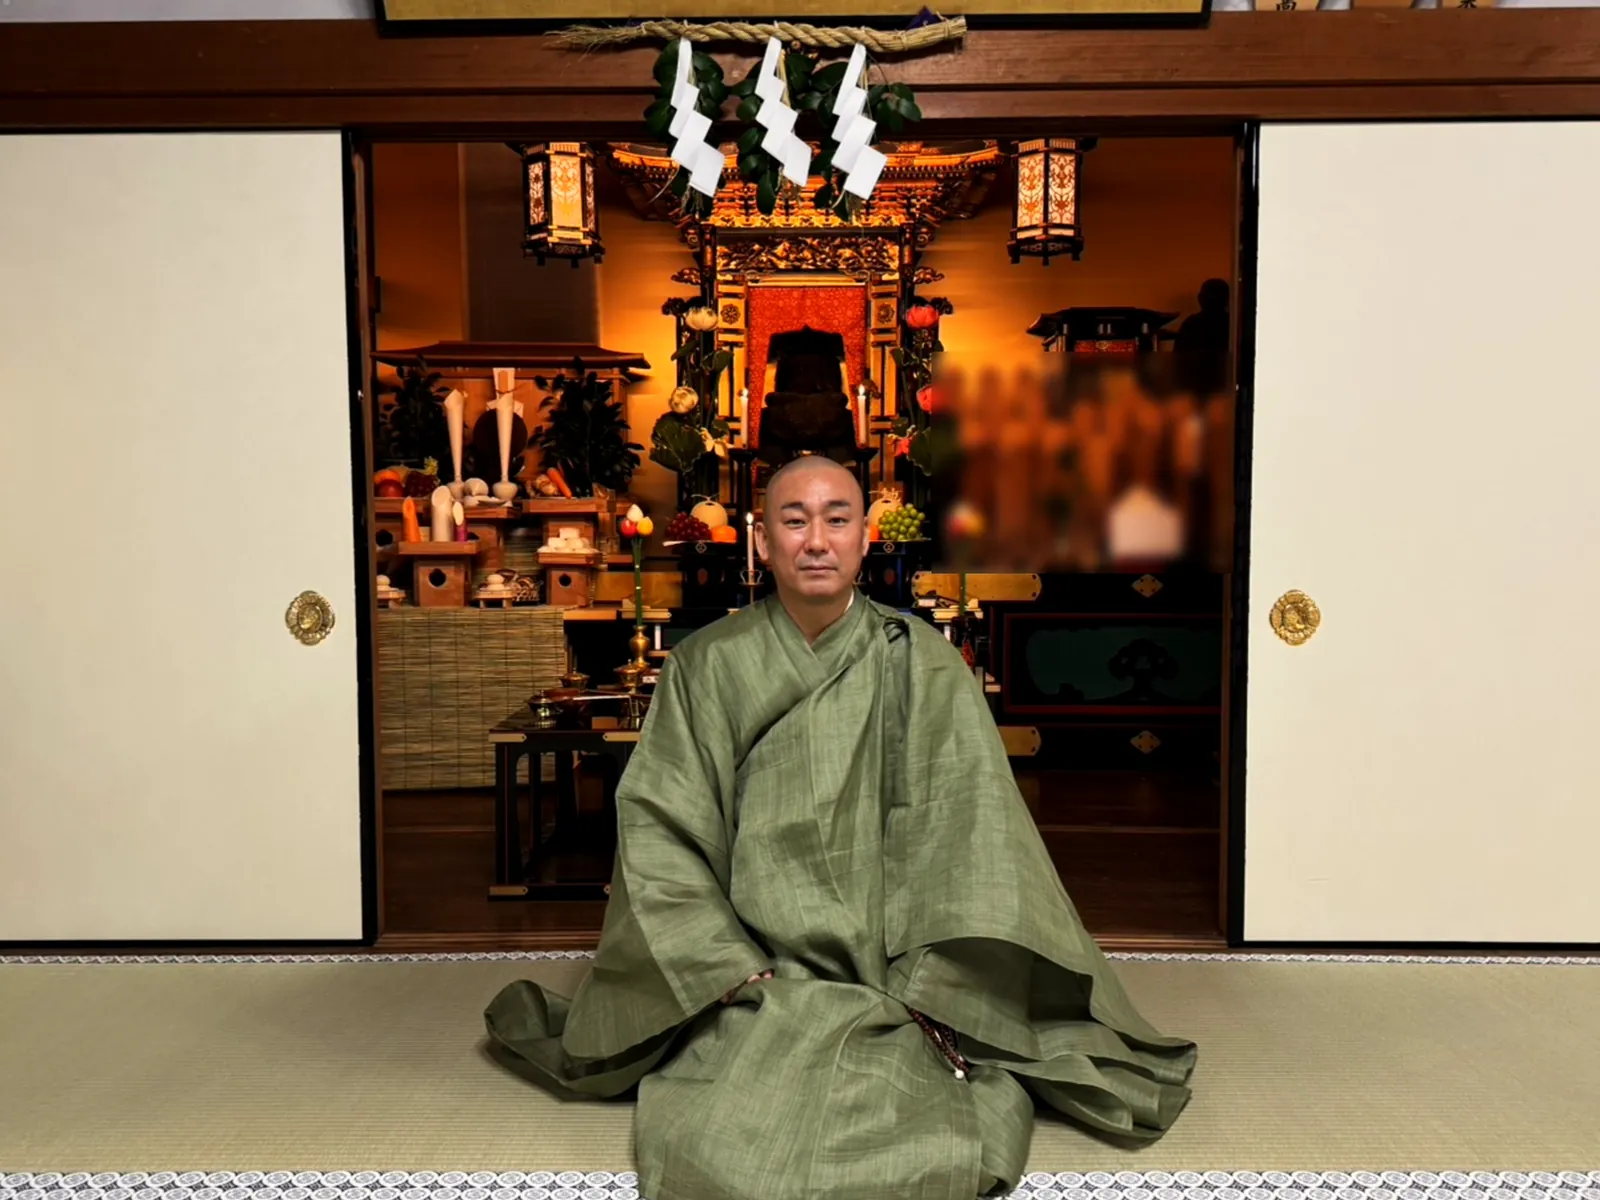
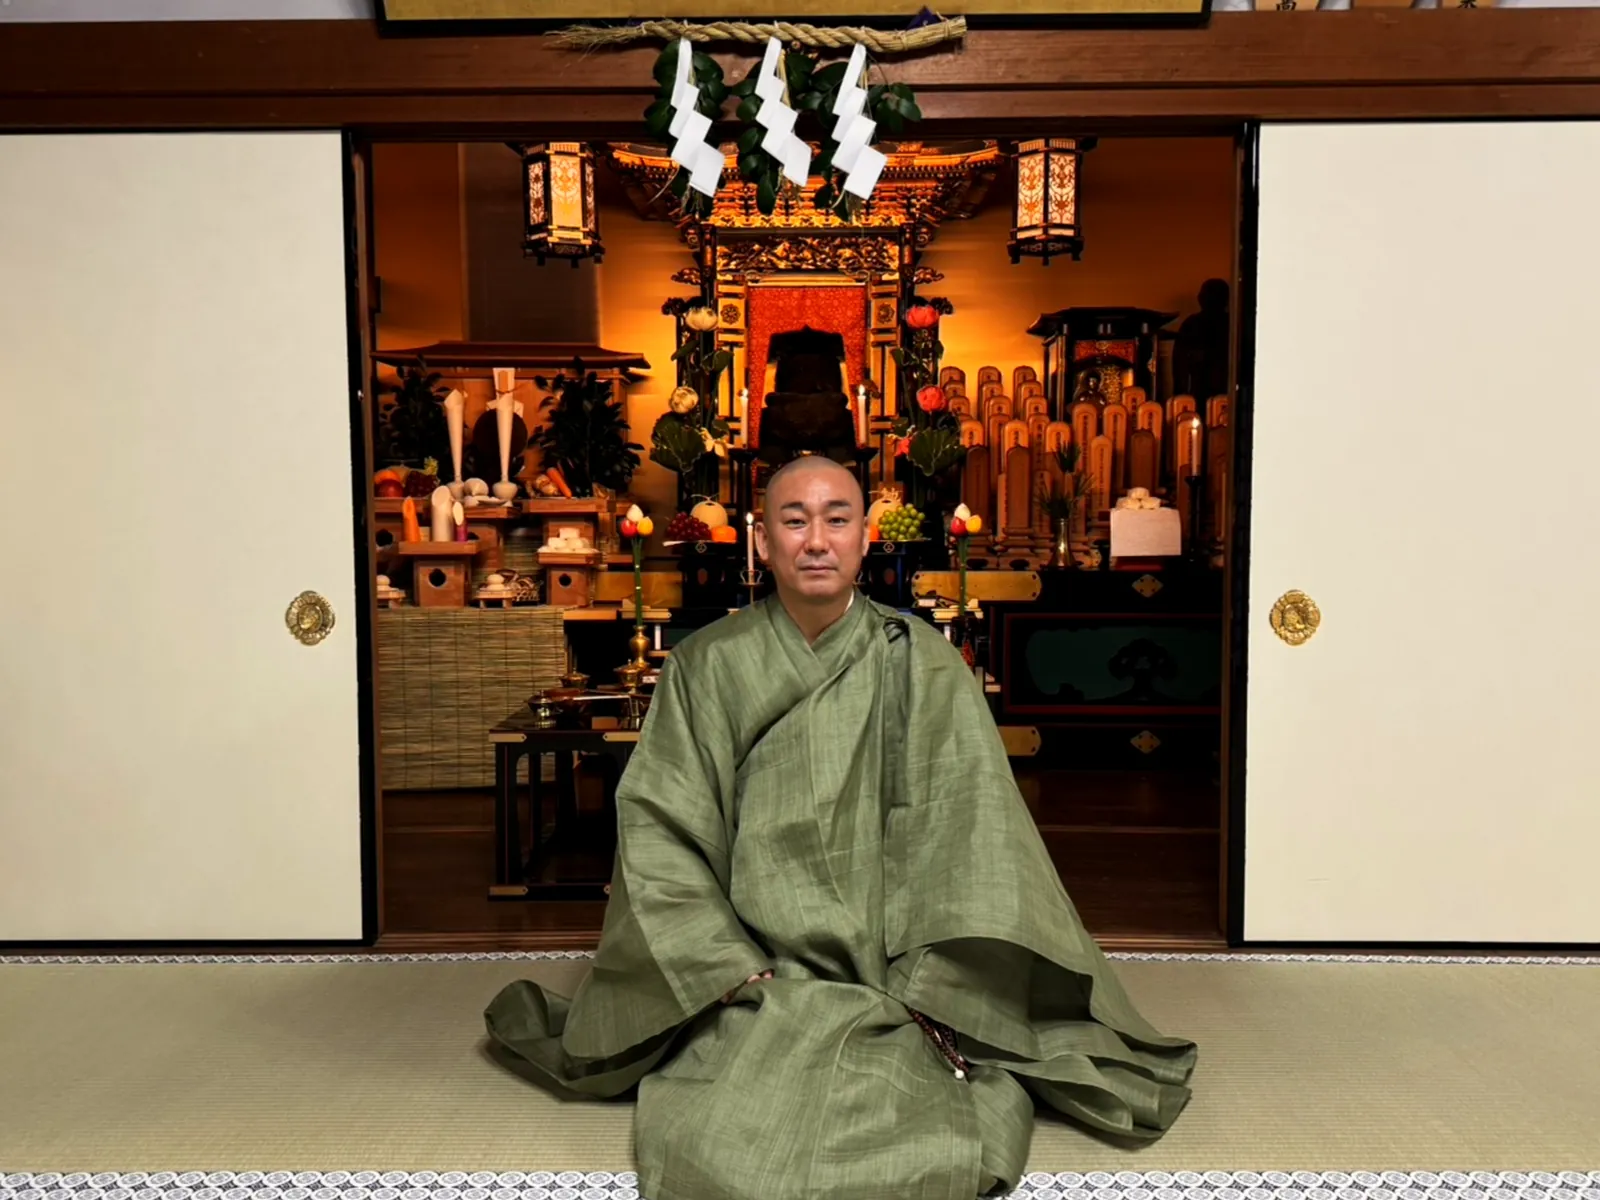
副住職：正座の写真のぼかしを外し、2枚を見開き風に（PCは重ねてずらす、スマホは大小の段違い）、小さな添え書き

Changed region(s): [[0.5625, 0.2775, 0.7812, 0.4933]]

diff --git a/priest.html b/priest.html
@@ -610,6 +610,22 @@ main>section:not(:first-of-type):not(.interlude):not(.kiku-sec):not(#monks),main
 .fuku-photos{gap:12px;}
 .fuku-photos .fuku-por img,.fuku-photos .kigan img{aspect-ratio:4/3 !important;}
 @media(min-width:900px){.fuku-photos{grid-template-columns:1fr 1fr !important;gap:24px !important;align-items:start !important;}}
+
+/* 副住職の2枚：重ねて、ずらす（雑誌の見開き） */
+.fuku-photos{display:block !important;position:relative;margin:40px 0 0 !important;}
+.fuku-photos figure{margin:0;overflow:visible !important;}
+.fuku-photos img{display:block;width:100%;height:auto;}
+.fuku-photos figcaption{margin-top:10px;font-size:13px;letter-spacing:.24em;color:var(--text-2);}
+.fuku-photos .fuku-por img{aspect-ratio:4/3 !important;object-fit:cover;}
+.fuku-photos .kigan{width:62%;margin:28px 0 0 auto !important;position:relative;z-index:2;}
+.fuku-photos .kigan img{aspect-ratio:4/5 !important;object-fit:cover;object-position:62% 50%;box-shadow:0 0 0 10px var(--washi);}
+.fuku-photos .kigan figcaption{text-align:right;}
+@media(min-width:900px){
+  .fuku-photos{display:grid !important;grid-template-columns:repeat(12,minmax(0,1fr)) !important;column-gap:28px !important;align-items:start;}
+  .fuku-photos .fuku-por{grid-column:1/span 8;grid-row:1;}
+  .fuku-photos .kigan{grid-column:8/span 5;grid-row:1;width:auto;margin:120px 0 0 !important;}
+  .fuku-photos .kigan img{box-shadow:0 0 0 14px var(--washi);}
+}
 </style>
 </head>
 <body>
@@ -780,8 +796,8 @@ main>section:not(:first-of-type):not(.interlude):not(.kiku-sec):not(#monks),main
         <span class="name"><ruby>古賀<rt>こが</rt></ruby>　<ruby>法顕<rt>ほうけん</rt></ruby></span>
       </p>
       <div class="fuku-photos">
-        <figure class="fuku-por rv-img"><img src="images/photos/fuku-seiza.webp" srcset="images/photos/fuku-seiza-960.webp 960w, images/photos/fuku-seiza.webp 1600w" sizes="(max-width: 899px) 100vw, 50vw" alt="本堂の内陣を背に、緑の法衣で正座する副住職" width="1600" height="1200" loading="lazy"></figure>
-        <figure class="kigan rv-img rv-d1"><img src="images/photos/fukujushoku-kigan.webp" srcset="images/photos/fukujushoku-kigan-960.webp 960w, images/photos/fukujushoku-kigan.webp 1280w" sizes="(max-width: 899px) 100vw, 60vw" alt="灯明の前で数珠を手に祈る副住職" loading="lazy" width="1280" height="948"></figure>
+        <figure class="fuku-por rv-img"><img src="images/photos/fuku-seiza.webp" srcset="images/photos/fuku-seiza-960.webp 960w, images/photos/fuku-seiza.webp 1600w" sizes="(max-width: 899px) 100vw, 50vw" alt="本堂の内陣を背に、緑の法衣で正座する副住職" width="1600" height="1200" loading="lazy"><figcaption>本堂にて</figcaption></figure>
+        <figure class="kigan rv-img rv-d1"><img src="images/photos/fukujushoku-kigan.webp" srcset="images/photos/fukujushoku-kigan-960.webp 960w, images/photos/fukujushoku-kigan.webp 1280w" sizes="(max-width: 899px) 100vw, 60vw" alt="灯明の前で数珠を手に祈る副住職" loading="lazy" width="1280" height="948"><figcaption>灯明の前で祈る</figcaption></figure>
       </div>
       <div class="fuku-text rv">
         <p>ご宿泊の際に、お会いすることの多い僧侶です。朝のお勤めも、副住職がつとめることが多くあります。</p>
